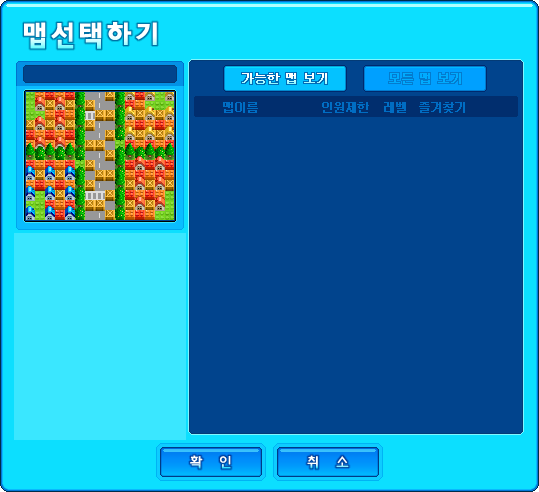
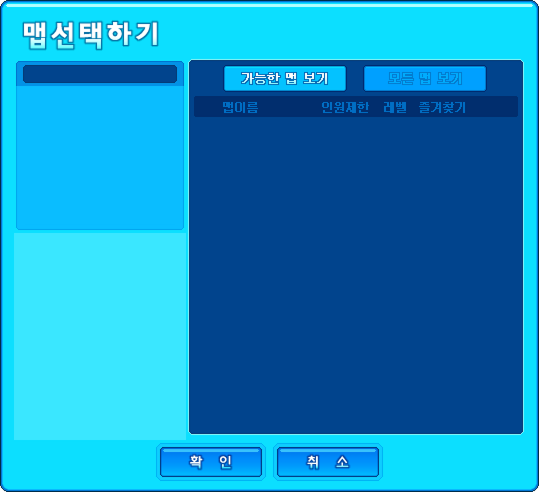
로비 이미지 및 맵리스트 팝업 이미지 편집

Changed region(s): [[0.0297, 0.1829, 0.3265, 0.4573]]

diff --git a/sfml-crazyarcade/lobbyUi.cpp b/sfml-crazyarcade/lobbyUi.cpp
@@ -114,7 +114,10 @@ void lobbyUi::Init()
 
 	exitButton = new Button("exitButton");
 	exitButton->SetActive(false);
-	exitButton->SetOnClick([=] { exitButton->SetActive(!exitButton->GetActive()); });
+	exitButton->SetOnClick([=] {
+		exitButton->SetActive(!exitButton->GetActive());
+		FRAMEWORK.GetWindow().close();
+		});
 
 	characterArea0->SetButton("assets/ui/lobby/Button_Space_UnHover.png", { 26.f, 93.f, 100.f, 100.f });
 	characterArea1->SetButton("assets/ui/lobby/Button_Space_UnHover.png", { 132.f, 93.f, 100.f, 100.f });
@@ -137,6 +140,7 @@ void lobbyUi::Init()
 
 	mapPop->SetButton("assets/ui/lobby/choiceMap.png", { 647.f, 429.f, 121.f, 46.f });
 	gameStartButton->SetButton("assets/ui/lobby/Button_GameStart_Down.png", { 538.f, 495.f, 191.f, 54.f });
+	exitButton->SetButton("assets/ui/lobby/Button_GameStart_Down.png", { 749.f, 573.f, 30.f, 22.f });
 
 	characterArea0->Reset();
 	characterArea1->Reset();
@@ -167,6 +171,11 @@ void lobbyUi::Init()
 		btn->SetActive(false);
 		btn->SetOnClick([=]
 			{
+				auto* Ready = dynamic_cast<SceneReady*>(SCENE_MGR.GetScene(SceneIds::Ready));
+				if (Ready->mapListUi->GetActive())
+				{
+					return;
+				}
 				bool willOn = !btn->GetActive();
 				btn->SetActive(willOn);
 				numRooms += willOn ? +1 : -1;
@@ -319,12 +328,6 @@ void lobbyUi::Update(float dt)
 	choiceCharacter1->Update(dt);
 	choiceCharacter2->Update(dt);
 	choiceCharacter3->Update(dt);
-	/*choiceCharacter4->Update(dt);
-	choiceCharacter6->Update(dt);
-	choiceCharacter8->Update(dt);
-	choiceCharacter5->Update(dt);
-	choiceCharacter7->Update(dt);*/
-
 
 	choiceColorRed->Update(dt);
 	choiceColorOrange->Update(dt);
@@ -352,11 +355,6 @@ void lobbyUi::Draw(sf::RenderWindow& window)
 	choiceCharacter1->Draw(window);
 	choiceCharacter2->Draw(window);
 	choiceCharacter3->Draw(window);
-	//choiceCharacter4->Draw(window);
-	//choiceCharacter5->Draw(window);
-	//choiceCharacter6->Draw(window);
-	//choiceCharacter7->Draw(window);
-	//choiceCharacter8->Draw(window);
 
 	choiceColorRed->Draw(window);
 	choiceColorYellow->Draw(window);

diff --git a/sfml-crazyarcade/MapLists.cpp b/sfml-crazyarcade/MapLists.cpp
@@ -13,7 +13,7 @@ void MapLists::Init()
 	// KHI: Load JSON files located in the map folder
 	mapList = LoadMapList("map");
 
-	// KHI: Set default map
+	// KHI: Set default map 
 	if (!mapList.empty())
 	{
 		SceneMgr::SelectedMapPath = mapList.begin()->second;
@@ -26,7 +26,8 @@ void MapLists::Init()
 	{
 		std::cout << pair.first << ": " << pair.second << std::endl;
 	}
-	std::cout << "�� " << mapList.size() << "�� �ε�" << std::endl;
+	
+	SetActive(false);
 	std::cout << "-------------------------" << std::endl;
 }
 
